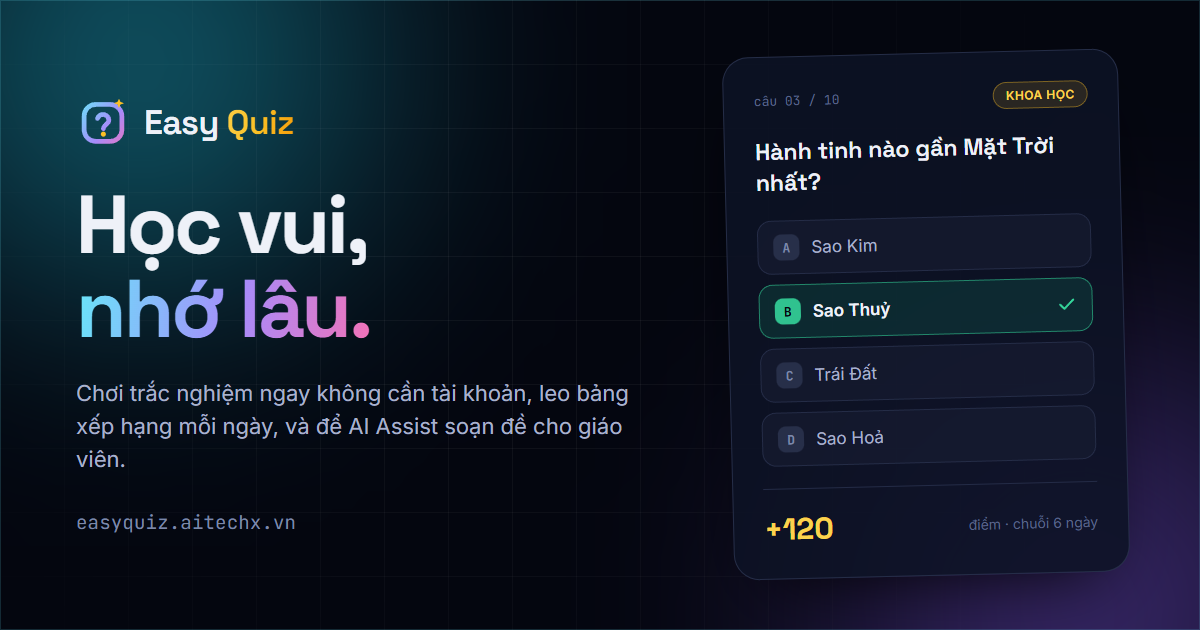
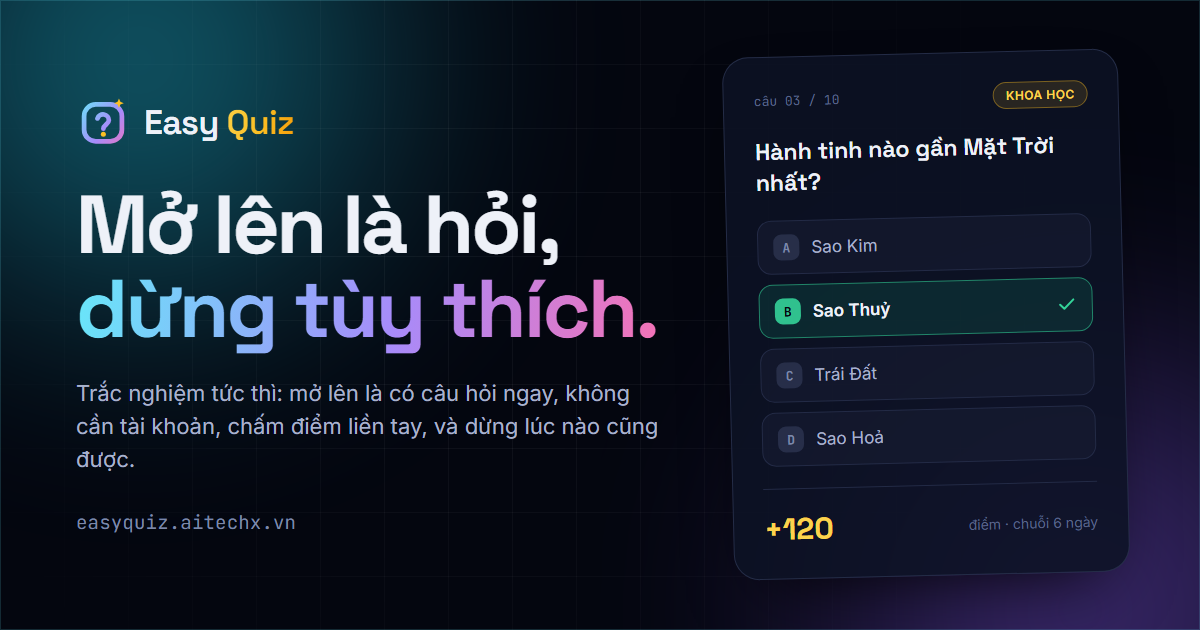
impress more on instant play

Changed region(s): [[0.0617, 0.3016, 0.555, 0.573], [0.0617, 0.6032, 0.555, 0.754]]

diff --git a/src/routes/landing-page.tsx b/src/routes/landing-page.tsx
@@ -1,13 +1,12 @@
 import { Link } from 'react-router-dom'
 import {
   ArrowRight,
-  Compass,
   Flame,
   Infinity as InfinityIcon,
   LineChart,
   Sparkles,
   Trophy,
-  Users,
+  Zap,
 } from 'lucide-react'
 
 import { AuroraBackground } from '@/components/brand/aurora-background'
@@ -30,10 +29,10 @@ import { cn } from '@/lib/utils'
 
 const PILLARS = [
   {
-    icon: Compass,
-    title: 'Chơi ngay, không rào cản',
+    icon: Zap,
+    title: 'Mở lên là hỏi ngay',
     description:
-      'Không cần đăng ký vẫn vào được. Chọn chủ đề bạn thích, bấm bắt đầu và làm bài — tài khoản chỉ cần khi bạn muốn giữ lại thành tích.',
+      'Không màn hình chờ, không nút bắt đầu. Câu hỏi đầu tiên có mặt ngay khi trang mở, và bạn dừng lúc nào cũng được.',
     tone: 'neon' as const,
   },
   {
@@ -55,18 +54,18 @@ const PILLARS = [
 const STEPS = [
   {
     number: '01',
-    title: 'Chọn chủ đề',
-    description: 'Toán, Lịch sử, Khoa học… hoặc để ô tìm kiếm dẫn đường.',
+    title: 'Mở lên',
+    description: 'Câu hỏi đầu tiên đã ở đó. Không đăng ký, không màn hình chờ, không nút bắt đầu.',
   },
   {
     number: '02',
-    title: 'Làm bài',
-    description: 'Đồng hồ chạy, câu hỏi rõ ràng, không bị phân tâm bởi quảng cáo.',
+    title: 'Trả lời',
+    description: 'Mỗi câu được chấm ngay, kèm đáp án và lời giải. Đúng thì nối chuỗi, sai thì hiểu liền.',
   },
   {
     number: '03',
-    title: 'Xem và leo hạng',
-    description: 'Nhận điểm, xem lại từng câu, rồi so mình với người khác.',
+    title: 'Dừng khi bạn muốn',
+    description: 'Bấm Dừng bất cứ lúc nào để xem tổng kết, rồi quay lại khi bạn rảnh.',
   },
 ]
 
@@ -117,9 +116,9 @@ export function LandingPage() {
 
               <Reveal delay={0.06}>
                 <h1 className="font-display mt-5 text-4xl font-semibold tracking-tight sm:text-5xl lg:text-6xl lg:leading-[1.05]">
-                  Học vui,
+                  Mở lên là hỏi,
                   <br />
-                  <span className="text-gradient-spark">nhớ lâu.</span>
+                  <span className="text-gradient-spark">dừng tùy thích.</span>
                 </h1>
               </Reveal>
 
@@ -131,18 +130,21 @@ export function LandingPage() {
 
               <Reveal delay={0.18}>
                 <div className="mt-8 flex flex-wrap items-center gap-3">
-                  <ButtonLink to="/explore" size="lg">
-                    Khám phá đề thi
+                  <ButtonLink to="/endless" size="lg">
+                    <InfinityIcon className="size-4" aria-hidden />
+                    Làm câu hỏi đầu tiên
                     <ArrowRight className="size-4 transition-transform duration-300 group-hover:translate-x-1" />
                   </ButtonLink>
-                  <ButtonLink to="/endless" variant="spark" size="lg">
-                    <InfinityIcon className="size-4" aria-hidden />
-                    Chế độ vô tận
+                  <ButtonLink to="/explore" variant="spark" size="lg">
+                    Khám phá đề thi
                   </ButtonLink>
                   <ButtonLink to="/register" variant="secondary" size="lg">
                     Tạo tài khoản
                   </ButtonLink>
                 </div>
+                <p className="text-ink-400 mt-4 text-sm">
+                  Không màn hình chờ · Không bắt buộc tài khoản · Dừng lúc nào cũng được
+                </p>
               </Reveal>
 
               <Reveal delay={0.24}>
@@ -216,7 +218,7 @@ export function LandingPage() {
           <SectionHeading
             eyebrow="Vì sao là Easy Quiz"
             title="Học mà chơi, chơi mà tiến bộ"
-            description="Chơi ngay không cần đăng ký, leo bảng xếp hạng mỗi ngày, và luôn biết mình cần luyện thêm chủ đề nào."
+            description="Mở lên là có câu hỏi ngay, chấm điểm liền tay, và bạn làm chủ thời gian của mình — học cho hiểu, chơi cho vui."
           />
 
           <div className="mt-12 grid gap-5 md:grid-cols-3">
@@ -388,7 +390,7 @@ export function LandingPage() {
       {/* ══ How it works ═══════════════════════════════════════════════ */}
       <section className="py-20">
         <div className="container-page">
-          <SectionHeading eyebrow="Ba bước" title="Từ ý thích đến bảng xếp hạng" />
+          <SectionHeading eyebrow="Ba bước" title="Từ mở app đến câu trả lời đầu tiên" />
 
           <ol className="mt-12 grid gap-5 md:grid-cols-3">
             {STEPS.map((step, index) => (
@@ -417,21 +419,20 @@ export function LandingPage() {
         <div className="container-page relative text-center">
           <Reveal>
             <h2 className="font-display text-3xl font-semibold tracking-tight sm:text-4xl">
-              Sẵn sàng cho lượt chơi đầu tiên?
+              Sẵn sàng cho câu hỏi đầu tiên?
             </h2>
             <p className="text-ink-300 mx-auto mt-4 max-w-xl text-base leading-relaxed">
-              {TAGLINE}. Không cần thẻ tín dụng, không cần email — chỉ cần chọn một chủ đề bạn
-              thấy hứng thú.
+              {TAGLINE}. Không cần thẻ tín dụng, không cần email — mở lên là có câu hỏi ngay,
+              và dừng lúc nào cũng được.
             </p>
 
             <div className="mt-8 flex flex-wrap justify-center gap-3">
-              <ButtonLink to="/explore" size="lg">
-                Bắt đầu học
+              <ButtonLink to="/endless" size="lg">
+                Làm câu hỏi đầu tiên
                 <ArrowRight className="size-4 transition-transform duration-300 group-hover:translate-x-1" />
               </ButtonLink>
-              <ButtonLink to="/leaderboard" variant="secondary" size="lg">
-                Xem bảng xếp hạng
-                <Users className="size-4" aria-hidden />
+              <ButtonLink to="/explore" variant="secondary" size="lg">
+                Khám phá đề thi
               </ButtonLink>
             </div>
 

diff --git a/index.html b/index.html
@@ -10,10 +10,10 @@
       tags on every client-side navigation. Anything a crawler cannot execute
       JavaScript for gets this honest fallback.
     -->
-    <title>Easy Quiz — Học vui, nhớ lâu | AiTechX</title>
+    <title>Easy Quiz — Mở lên là hỏi, dừng tùy thích | AiTechX</title>
     <meta
       name="description"
-      content="Easy Quiz là nền tảng trắc nghiệm của AiTechX: khám phá đề thi theo chủ đề, chơi ngay không cần đăng nhập, và leo bảng xếp hạng sau mỗi lượt chơi. Chế độ vô tận giúp bạn luyện không giới hạn, còn tiến độ cho bạn thấy mình mạnh yếu ở đâu."
+      content="Easy Quiz là nền tảng trắc nghiệm tức thì của AiTechX: mở lên là có câu hỏi ngay, không màn hình chờ, không bắt buộc tài khoản. Mỗi câu được chấm liền tay và chọn theo trình độ của bạn — và bạn dừng lúc nào cũng được."
     />
     <link rel="canonical" href="https://easyquiz.aitechx.vn/" />
     <meta name="robots" content="index, follow, max-image-preview:large" />
@@ -27,10 +27,10 @@
     <meta property="og:type" content="website" />
     <meta property="og:site_name" content="Easy Quiz" />
     <meta property="og:locale" content="vi_VN" />
-    <meta property="og:title" content="Easy Quiz — Học vui, nhớ lâu" />
+    <meta property="og:title" content="Easy Quiz — Mở lên là hỏi, dừng tùy thích" />
     <meta
       property="og:description"
-      content="Trắc nghiệm thông minh: chơi ngay không cần tài khoản, leo bảng xếp hạng, và luyện không giới hạn ở chế độ vô tận."
+      content="Trắc nghiệm tức thì: mở lên là có câu hỏi ngay, không cần tài khoản, chấm điểm liền tay, và dừng lúc nào cũng được."
     />
     <meta property="og:url" content="https://easyquiz.aitechx.vn/" />
     <meta property="og:image" content="https://easyquiz.aitechx.vn/og-image.png" />
@@ -39,20 +39,20 @@
     <meta property="og:image:height" content="630" />
     <meta
       property="og:image:alt"
-      content="Easy Quiz — Học vui, nhớ lâu. Nền tảng trắc nghiệm của AiTechX."
+      content="Easy Quiz — Mở lên là hỏi, dừng tùy thích. Nền tảng trắc nghiệm của AiTechX."
     />
 
     <!-- Twitter / X -->
     <meta name="twitter:card" content="summary_large_image" />
-    <meta name="twitter:title" content="Easy Quiz — Học vui, nhớ lâu" />
+    <meta name="twitter:title" content="Easy Quiz — Mở lên là hỏi, dừng tùy thích" />
     <meta
       name="twitter:description"
-      content="Trắc nghiệm thông minh: chơi ngay không cần tài khoản, leo bảng xếp hạng, và luyện không giới hạn ở chế độ vô tận."
+      content="Trắc nghiệm tức thì: mở lên là có câu hỏi ngay, không cần tài khoản, chấm điểm liền tay, và dừng lúc nào cũng được."
     />
     <meta name="twitter:image" content="https://easyquiz.aitechx.vn/og-image.png" />
     <meta
       name="twitter:image:alt"
-      content="Easy Quiz — Học vui, nhớ lâu. Nền tảng trắc nghiệm của AiTechX."
+      content="Easy Quiz — Mở lên là hỏi, dừng tùy thích. Nền tảng trắc nghiệm của AiTechX."
     />
 
     <link rel="preconnect" href="https://fonts.googleapis.com" />
@@ -75,7 +75,7 @@
             "applicationCategory": "EducationalApplication",
             "operatingSystem": "Web",
             "inLanguage": "vi-VN",
-            "description": "Nền tảng trắc nghiệm của AiTechX: khám phá đề thi theo chủ đề, chơi ngay không cần tài khoản, leo bảng xếp hạng, và luyện không giới hạn ở chế độ vô tận.",
+            "description": "Nền tảng trắc nghiệm tức thì của AiTechX: mở lên là có câu hỏi ngay, không màn hình chờ, không bắt buộc tài khoản. Mỗi câu được chấm liền tay và chọn theo trình độ của bạn — dừng lúc nào cũng được.",
             "image": "https://easyquiz.aitechx.vn/og-image.png",
             "isAccessibleForFree": true,
             "offers": {

diff --git a/src/components/layout/site-header.tsx b/src/components/layout/site-header.tsx
@@ -54,6 +54,11 @@ export function SiteHeader() {
         </nav>
 
         <div className="ml-auto flex items-center gap-2">
+          <ButtonLink to="/endless" size="sm" className="hidden sm:inline-flex">
+            <InfinityIcon className="size-4" aria-hidden />
+            Chơi ngay
+          </ButtonLink>
+
           {isGuest ? (
             <Link
               to="/register"
@@ -95,6 +100,16 @@ export function SiteHeader() {
       {mobileOpen ? (
         <div className="border-ink-600/60 bg-ink-950/95 border-t backdrop-blur-xl md:hidden">
           <nav className="container-page flex flex-col gap-1 py-3" aria-label="Điều hướng di động">
+            <ButtonLink
+              to="/endless"
+              size="sm"
+              className="mb-2 justify-center"
+              onClick={() => setMobileOpen(false)}
+            >
+              <InfinityIcon className="size-4" aria-hidden />
+              Chơi ngay
+            </ButtonLink>
+
             <NavLink
               to="/explore"
               className={linkClasses}

diff --git a/src/lib/site.ts b/src/lib/site.ts
@@ -16,10 +16,10 @@ export const SITE_URL = (
   rawSiteUrl && rawSiteUrl !== '' ? rawSiteUrl : 'https://easyquiz.aitechx.vn'
 ).replace(/\/+$/, '')
 
-export const TAGLINE = 'Học vui, nhớ lâu'
+export const TAGLINE = 'Mở lên là hỏi, dừng tùy thích'
 
 export const APP_DESCRIPTION =
-  'Khám phá đề trắc nghiệm theo chủ đề, chơi ngay không cần tài khoản, và leo bảng xếp hạng sau mỗi lượt. Chế độ vô tận giúp bạn luyện không giới hạn, còn tiến độ cho bạn thấy mình mạnh yếu ở đâu.'
+  'Mở lên là có câu hỏi ngay — không màn hình chờ, không bắt buộc tài khoản, và dừng lúc nào cũng được. Mỗi câu được chấm tức thì và chọn theo trình độ của bạn, để việc luyện tập vừa nhanh vừa vui.'
 
 /** The title a page gets when it does not set one of its own. */
 export const HOME_TITLE = `${APP_NAME} — ${TAGLINE} | ${BRAND_NAME}`

diff --git a/src/components/layout/site-footer.tsx b/src/components/layout/site-footer.tsx
@@ -34,8 +34,8 @@ export function SiteFooter() {
             Easy<span className="text-gradient-spark"> Quiz</span>
           </p>
           <p className="text-ink-300 mt-3 max-w-sm text-sm leading-relaxed">
-            {TAGLINE} — nền tảng trắc nghiệm của AiTechX. Chơi ngay không cần tài khoản, leo bảng
-            xếp hạng mỗi ngày, và luyện không giới hạn ở chế độ vô tận.
+            {TAGLINE} — nền tảng trắc nghiệm của AiTechX. Mở lên là có câu hỏi ngay, chấm điểm
+            liền tay, không cần tài khoản, và dừng lúc nào cũng được.
           </p>
           <div className="mt-5">
             <BrandCredit />

diff --git a/scripts/og-image.html b/scripts/og-image.html
@@ -318,11 +318,11 @@
         <span class="wordmark">Easy<span class="spark"> Quiz</span></span>
       </div>
 
-      <h1>Học vui,<br /><span class="gradient">nhớ lâu.</span></h1>
+      <h1>Mở lên là hỏi,<br /><span class="gradient">dừng tùy thích.</span></h1>
 
       <p class="lede">
-        Chơi trắc nghiệm ngay không cần tài khoản, leo bảng xếp hạng mỗi ngày, và luyện không
-        giới hạn ở chế độ vô tận.
+        Trắc nghiệm tức thì: mở lên là có câu hỏi ngay, không cần tài khoản, chấm điểm liền tay,
+        và dừng lúc nào cũng được.
       </p>
 
       <p class="url">easyquiz.aitechx.vn</p>

diff --git a/src/remotion/landing-hero.tsx b/src/remotion/landing-hero.tsx
@@ -33,8 +33,8 @@ export type LandingHeroProps = {
 }
 
 export const landingHeroDefaults: LandingHeroProps = {
-  headline: 'Học vui, nhớ lâu',
-  subhead: 'Trắc nghiệm theo chủ đề · Chơi ngay, không cần tài khoản',
+  headline: 'Mở lên là hỏi ngay',
+  subhead: 'Trắc nghiệm tức thì · Chấm liền tay, dừng tùy thích',
   question: 'Thủ đô của Việt Nam là thành phố nào?',
   options: ['Hà Nội', 'Huế', 'Đà Nẵng', 'TP. Hồ Chí Minh'],
   correctIndex: 0,

diff --git a/README.md b/README.md
@@ -1,10 +1,12 @@
 # Easy Quiz
 
-> Học vui, nhớ lâu.
+> Mở lên là hỏi, dừng tùy thích.
 
-A quiz platform from **AiTechX**: users explore quizzes by topic, play immediately
-(with or without an account) and land on a leaderboard; admins author quizzes — optionally
-with AI Assist, which turns a one-line brief into a ready-to-edit question set.
+An instant-play quiz platform from **AiTechX**: open it and the first question is already on
+screen — no waiting screen, no account required — and you stop whenever you like. Answers are
+graded instantly, the next question leans on your strongest topics, and a running streak keeps
+the leaderboard meaningful; admins author quizzes — optionally with AI Assist, which turns a
+one-line brief into a ready-to-edit question set.
 
 The landing page and the quiz player are animated with [Remotion](https://remotion.dev),
 rendered live in the browser via `@remotion/player`.
